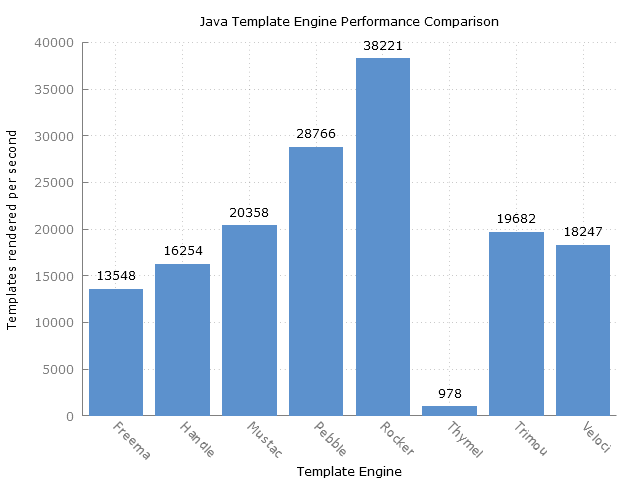
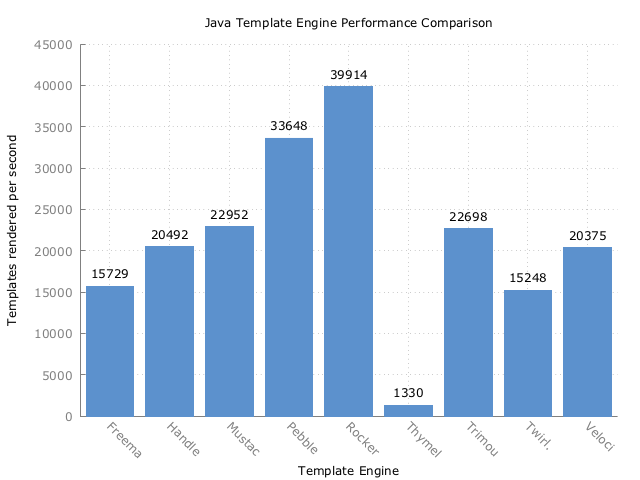
Add Twirl

diff --git a/src/main/resources/templates/stocks.scala.html b/src/main/resources/templates/stocks.scala.html
@@ -1,0 +1,77 @@
+@(items: List[Stock])
+@import com.mitchellbosecke.benchmark.model.Stock
+<!DOCTYPE html>
+<html>
+<head>
+<title>Stock Prices</title>
+<meta http-equiv="Content-Type" content="text/html; charset=UTF-8" />
+<meta http-equiv="Content-Style-Type" content="text/css" />
+<meta http-equiv="Content-Script-Type" content="text/javascript" />
+<link rel="shortcut icon" href="/images/favicon.ico" />
+<link rel="stylesheet" type="text/css" href="/css/style.css" media="all" />
+<script type="text/javascript" src="/js/util.js"></script>
+<style type="text/css">
+/*<![CDATA[*/
+body {
+  color: #333333;
+  line-height: 150%;
+}
+
+thead {
+  font-weight: bold;
+  background-color: #CCCCCC;
+}
+
+.odd {
+  background-color: #FFCCCC;
+}
+
+.even {
+  background-color: #CCCCFF;
+}
+
+.minus {
+  color: #FF0000;
+}
+
+/*]]>*/
+</style>
+
+</head>
+
+<body>
+
+  <h1>Stock Prices</h1>
+
+  <table>
+    <thead>
+      <tr>
+        <th>#</th>
+        <th>symbol</th>
+        <th>name</th>
+        <th>price</th>
+        <th>change</th>
+        <th>ratio</th>
+      </tr>
+    </thead>
+    <tbody>
+      @for((item,index) <- items.zipWithIndex) {
+        <tr class="@if(index % 2 == 0){odd}else{even}">
+          <td>@{index + 1}</td>
+          <td><a href="/stocks/@item.symbol">@item.symbol</a></td>
+          <td><a href="@item.url">@item.name</a></td>
+          <td><strong>@item.price</strong></td>
+          @if(item.change < 0.0) {
+            <td class="minus">@item.change</td>
+            <td class="minus">@item.ratio</td>
+          }else{
+            <td>@item.change</td>
+            <td>@item.ratio</td>
+          }
+        </tr>
+      }
+    </tbody>
+  </table>
+
+</body>
+</html>

diff --git a/src/main/java/com/mitchellbosecke/benchmark/Twirl.java b/src/main/java/com/mitchellbosecke/benchmark/Twirl.java
@@ -1,0 +1,30 @@
+package com.mitchellbosecke.benchmark;
+
+import com.mitchellbosecke.benchmark.model.Stock;
+import org.openjdk.jmh.annotations.Benchmark;
+import org.openjdk.jmh.annotations.Setup;
+
+import java.io.IOException;
+import java.util.List;
+
+/**
+ * Benchmark for Scala template engine.
+ * 
+ * @author lauraluiz
+ */
+public class Twirl extends BaseBenchmark {
+
+    private List<Stock> items;
+
+    @Setup
+    public void setup() throws IOException {
+        // no config needed, replicate stocks from context
+        this.items = Stock.dummyItems();
+    }
+
+    @Benchmark
+    public String benchmark() throws IOException {
+        return templates.html.stocks.render(this.items).toString();
+    }
+
+}

diff --git a/src/test/java/com/mitchellbosecke/benchmark/ExpectedOutputTest.java b/src/test/java/com/mitchellbosecke/benchmark/ExpectedOutputTest.java
@@ -81,6 +81,13 @@ public class ExpectedOutputTest {
         assertOutput(hbs.benchmark());
     }
 
+    @Test
+    public void testTwirlOutput() throws IOException {
+        Twirl twirl = new Twirl();
+        twirl.setup();
+        assertOutput(twirl.benchmark());
+    }
+
     private void assertOutput(final String output) throws IOException {
         assertEquals(readExpectedOutputResource(), output.replaceAll("\\s", ""));
     }
